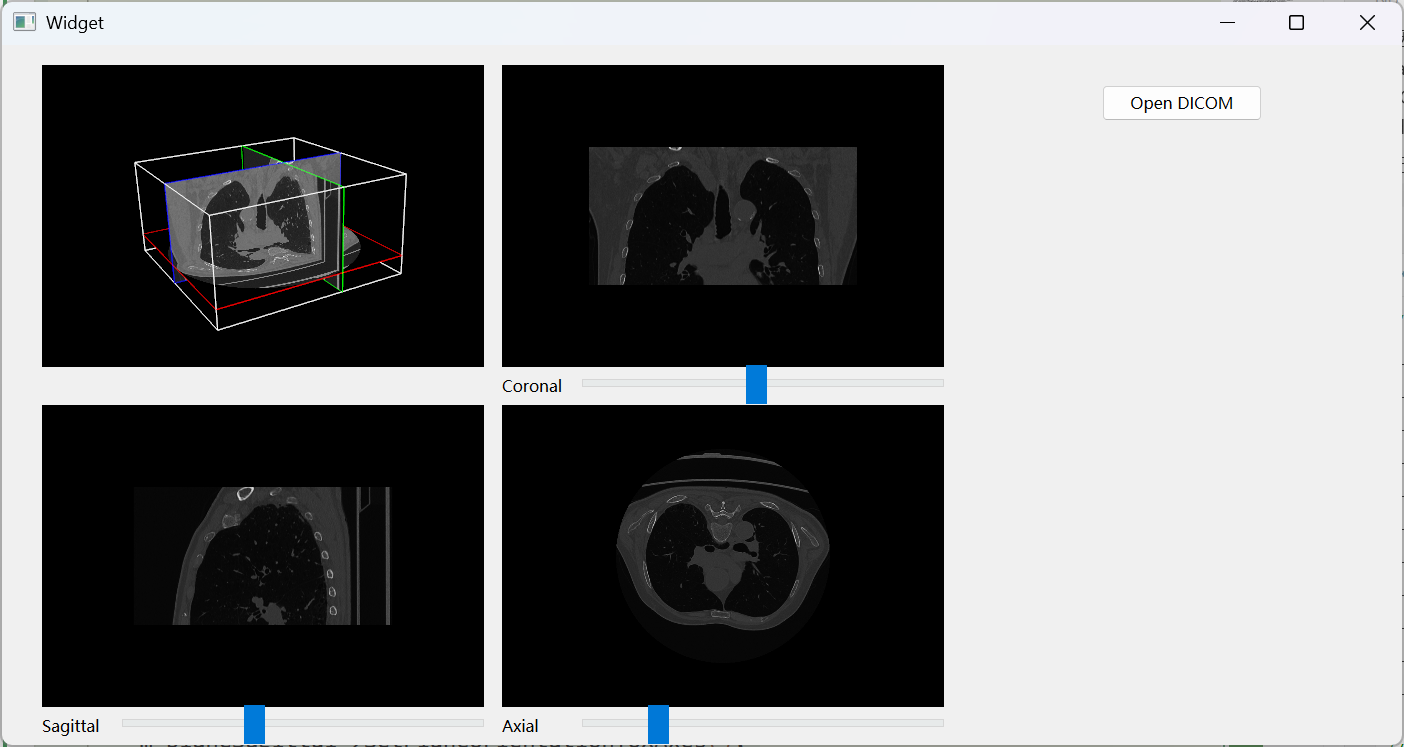
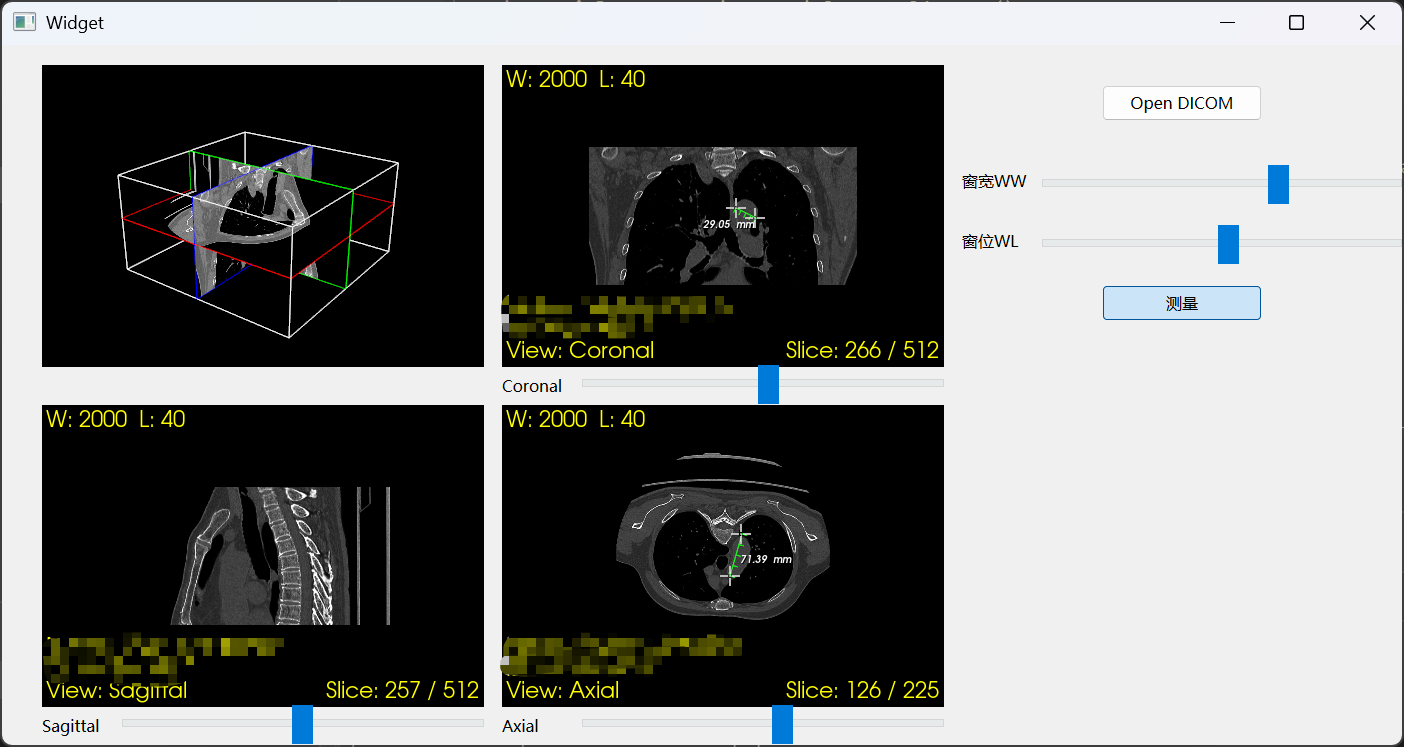
添加DICOM图像测量功能并优化注释显示

diff --git a/widget.cpp b/widget.cpp
@@ -9,6 +9,9 @@
 #include <QMessageBox>
 #include <QSlider>
 #include <QSignalBlocker>
+#include <QTextCodec>
+#include <QFile>
+#include <QStringList>
 
 #include <algorithm>
 #include <cstring>
@@ -34,6 +37,9 @@ VTK_MODULE_INIT(vtkRenderingFreeType);
 #include <vtkCellPicker.h>
 #include <vtkInteractorStyleImage.h>
 #include <vtkRenderWindowInteractor.h>
+#include <vtkDistanceWidget.h>
+#include <vtkDistanceRepresentation2D.h>
+#include <vtkProperty2D.h>
 
 #include <itkImageSeriesReader.h>
 #include <itkGDCMImageIO.h>
@@ -66,6 +72,7 @@ Widget::Widget(QWidget *parent)
 {
     ui->setupUi(this);
     connect(ui->btn_open, &QPushButton::clicked, this, &Widget::onOpenDicom);
+    connect(ui->btn_measure, &QPushButton::toggled, this, &Widget::onMeasureToggled);
     
     // 获取 UI 中的 QVTKOpenGLNativeWidget
     view_axial = ui->view_axial;
@@ -193,6 +200,20 @@ void Widget::onOpenDicom()
         return;
     }
 
+    // 健壮性处理：先关闭所有测量工具，防止与旧的 Interactor 冲突
+    if (m_distWidgetAxial) {
+        m_distWidgetAxial->Off();
+        m_distWidgetAxial->SetInteractor(nullptr);
+    }
+    if (m_distWidgetSagittal) {
+        m_distWidgetSagittal->Off();
+        m_distWidgetSagittal->SetInteractor(nullptr);
+    }
+    if (m_distWidgetCoronal) {
+        m_distWidgetCoronal->Off();
+        m_distWidgetCoronal->SetInteractor(nullptr);
+    }
+
     // 健壮性处理：如果已经存在 viewer，先重置输入数据
     if (m_viewerAxial) {
         m_viewerAxial->SetInputData(nullptr);
@@ -245,22 +266,52 @@ void Widget::onOpenDicom()
     m_viewerCoronal->SetInputData(vtkImage);
 
     // 初始化 / 添加 2D 视图角标
+    // 查找支持中文的系统字体文件（Windows）
+    QString chineseFontPath;
+    QStringList fontPaths = {
+        "C:/Windows/Fonts/msyh.ttf",      // 微软雅黑
+        "C:/Windows/Fonts/simhei.ttf",    // 黑体
+        "C:/Windows/Fonts/simsun.ttc",    // 宋体
+        "C:/Windows/Fonts/msyhbd.ttf"     // 微软雅黑 Bold
+    };
+    
+    for (const QString &path : fontPaths) {
+        if (QFile::exists(path)) {
+            chineseFontPath = path;
+            break;
+        }
+    }
+    
+    auto setupAnnotation = [&chineseFontPath](vtkCornerAnnotation *annot) {
+        if (!annot) return;
+        auto textProp = annot->GetTextProperty();
+        textProp->SetColor(1.0, 1.0, 0.0); // 黄色
+        
+        if (!chineseFontPath.isEmpty()) {
+            // 使用字体文件
+            textProp->SetFontFamily(VTK_FONT_FILE);
+            textProp->SetFontFile(chineseFontPath.toStdString().c_str());
+        } else {
+            // 回退到 Times 字体
+            textProp->SetFontFamilyToTimes();
+        }
+        
+        annot->SetMaximumFontSize(14);
+    };
+    
     if (!m_annotAxial) {
         m_annotAxial = vtkSmartPointer<vtkCornerAnnotation>::New();
-        m_annotAxial->GetTextProperty()->SetColor(1.0, 1.0, 0.0); // 黄色
-        m_annotAxial->SetMaximumFontSize(14);
+        setupAnnotation(m_annotAxial);
         m_viewerAxial->GetRenderer()->AddViewProp(m_annotAxial);
     }
     if (!m_annotSagittal) {
         m_annotSagittal = vtkSmartPointer<vtkCornerAnnotation>::New();
-        m_annotSagittal->GetTextProperty()->SetColor(1.0, 1.0, 0.0);
-        m_annotSagittal->SetMaximumFontSize(14);
+        setupAnnotation(m_annotSagittal);
         m_viewerSagittal->GetRenderer()->AddViewProp(m_annotSagittal);
     }
     if (!m_annotCoronal) {
         m_annotCoronal = vtkSmartPointer<vtkCornerAnnotation>::New();
-        m_annotCoronal->GetTextProperty()->SetColor(1.0, 1.0, 0.0);
-        m_annotCoronal->SetMaximumFontSize(14);
+        setupAnnotation(m_annotCoronal);
         m_viewerCoronal->GetRenderer()->AddViewProp(m_annotCoronal);
     }
 
@@ -292,34 +343,35 @@ void Widget::onOpenDicom()
     disconnect(sliderWindow,   &QSlider::valueChanged, this, nullptr);
     disconnect(sliderLevel,    &QSlider::valueChanged, this, nullptr);
 
-    // 设置轴向滑动条
+    // 设置轴向滑动条（先断开信号，设置值后再连接，避免触发未初始化的回调）
     int axialMin = m_viewerAxial->GetSliceMin();
     int axialMax = m_viewerAxial->GetSliceMax();
     sliderAxial->setRange(axialMin, axialMax);
-    // 设置滑动条默认值为中值（同时用于 3D 平面）
     int axialMid = std::clamp(axialMidIndex, axialMin, axialMax);
     m_viewerAxial->SetSlice(axialMid);
+    disconnect(sliderAxial, &QSlider::valueChanged, this, &Widget::onSliderAxialChanged);
     sliderAxial->setValue(axialMid);
     connect(sliderAxial, &QSlider::valueChanged, this, &Widget::onSliderAxialChanged, Qt::UniqueConnection);
 
-    // 设置矢状位滑动条
+    // 设置矢状位滑动条（先断开信号，设置值后再连接，避免触发未初始化的回调）
     int sagittalMin = m_viewerSagittal->GetSliceMin();
     int sagittalMax = m_viewerSagittal->GetSliceMax();
     sliderSagittal->setRange(sagittalMin, sagittalMax);
-    // 设置滑动条默认值为中值（同时用于 3D 平面）
     int sagittalMid = std::clamp(sagittalMidIndex, sagittalMin, sagittalMax);
     m_viewerSagittal->SetSlice(sagittalMid);
+    disconnect(sliderSagittal, &QSlider::valueChanged, this, &Widget::onSliderSagittalChanged);
     sliderSagittal->setValue(sagittalMid);
     connect(sliderSagittal, &QSlider::valueChanged, this, &Widget::onSliderSagittalChanged, Qt::UniqueConnection);
 
-    // 设置冠状位滑动条
+    // 设置冠状位滑动条（先断开信号，设置值后再连接，避免触发未初始化的回调）
     int coronalMin = m_viewerCoronal->GetSliceMin();
     int coronalMax = m_viewerCoronal->GetSliceMax();
     sliderCoronal->setRange(coronalMin, coronalMax);
-    // 设置滑动条默认值为中值（同时用于 3D 平面）
     int coronalMid = std::clamp(coronalMidIndex, coronalMin, coronalMax);
     m_viewerCoronal->SetSlice(coronalMid);
+    disconnect(sliderCoronal, &QSlider::valueChanged, this, &Widget::onSliderCoronalChanged);
     sliderCoronal->setValue(coronalMid);
+    connect(sliderCoronal, &QSlider::valueChanged, this, &Widget::onSliderCoronalChanged, Qt::UniqueConnection);
 
     // 设置窗宽 / 窗位滑动条的范围和默认值
     sliderWindow->setRange(1, 3000);
@@ -511,7 +563,52 @@ std::string Widget::GetDicomValue(const itk::MetaDataDictionary &dict,
     if (value.empty()) {
         return "N/A";
     }
-    return value;
+    
+    // 清理字符串：移除前导和尾随空白字符
+    std::string cleanedValue = value;
+    size_t firstNonSpace = cleanedValue.find_first_not_of(" \t\n\r");
+    if (firstNonSpace != std::string::npos) {
+        cleanedValue.erase(0, firstNonSpace);
+    }
+    size_t lastNonSpace = cleanedValue.find_last_not_of(" \t\n\r");
+    if (lastNonSpace != std::string::npos) {
+        cleanedValue.erase(lastNonSpace + 1);
+    }
+    
+    if (cleanedValue.empty()) {
+        return "N/A";
+    }
+    
+    // 对于患者姓名（0010|0010），尝试多种编码方式
+    if (tagKey == "0010|0010") {
+        // 尝试使用本地编码（Windows 上通常是 GBK）
+        QString nameFromLocal = QString::fromLocal8Bit(cleanedValue.c_str());
+        if (!nameFromLocal.contains('?') && !nameFromLocal.isEmpty()) {
+            return nameFromLocal.toStdString();
+        }
+        
+        // 尝试使用 GBK 编码
+        QTextCodec *gbkCodec = QTextCodec::codecForName("GBK");
+        if (gbkCodec) {
+            QString nameFromGBK = gbkCodec->toUnicode(cleanedValue.c_str());
+            if (!nameFromGBK.contains('?') && !nameFromGBK.isEmpty()) {
+                return nameFromGBK.toStdString();
+            }
+        }
+        
+        // 尝试使用 GB2312 编码
+        QTextCodec *gb2312Codec = QTextCodec::codecForName("GB2312");
+        if (gb2312Codec) {
+            QString nameFromGB2312 = gb2312Codec->toUnicode(cleanedValue.c_str());
+            if (!nameFromGB2312.contains('?') && !nameFromGB2312.isEmpty()) {
+                return nameFromGB2312.toStdString();
+            }
+        }
+        
+        // 如果都失败，使用原始值
+    }
+    
+    return cleanedValue;
 }
 
 void Widget::onSliderAxialChanged(int value)
@@ -685,23 +782,35 @@ void Widget::UpdateAnnotations()
         if (slice < 1) slice = 1;
         if (slice > totalSlices) slice = totalSlices;
 
+        // 使用 QString 构建所有文本，确保 UTF-8 编码
+        QString patientName = QString::fromStdString(m_patientName);
+        QString patientID = QString::fromStdString(m_patientID);
+        
+        // 如果姓名为空或只有空白字符，显示 "N/A"
+        if (patientName.trimmed().isEmpty() || patientName == "N/A") {
+            patientName = QString::fromUtf8("N/A");
+        }
+
         // 左上角：患者信息 + 方向
-        std::string topLeft = "Name: " + m_patientName +
-                              "\nID: " + m_patientID +
-                              "\nView: " + (orientationLabel ? orientationLabel : "");
-        annot->SetText(0, topLeft.c_str());
+        QString topLeft = QString::fromUtf8("Name: %1\nID: %2\nView: %3")
+                          .arg(patientName)
+                          .arg(patientID)
+                          .arg(orientationLabel ? QString::fromUtf8(orientationLabel) : QString());
+        annot->SetText(0, topLeft.toUtf8().constData());
 
         // 左下角：切片信息
-        std::string bottomLeft = "Slice: " + std::to_string(slice) +
-                                 " / " + std::to_string(totalSlices);
-        annot->SetText(1, bottomLeft.c_str());
+        QString bottomLeft = QString::fromUtf8("Slice: %1 / %2")
+                             .arg(slice)
+                             .arg(totalSlices);
+        annot->SetText(1, bottomLeft.toUtf8().constData());
 
         // 右下角：窗宽 / 窗位
         double w = viewer->GetColorWindow();
         double l = viewer->GetColorLevel();
-        std::string bottomRight = "W: " + std::to_string(static_cast<int>(w)) +
-                                  "  L: " + std::to_string(static_cast<int>(l));
-        annot->SetText(2, bottomRight.c_str());
+        QString bottomRight = QString::fromUtf8("W: %1  L: %2")
+                              .arg(static_cast<int>(w))
+                              .arg(static_cast<int>(l));
+        annot->SetText(2, bottomRight.toUtf8().constData());
     };
 
     updateForViewer(m_viewerAxial,    m_annotAxial,    "Axial");
@@ -819,5 +928,111 @@ void Widget::HandleViewClick(vtkResliceImageViewer *viewer,
     }
     if (auto slider = qobject_cast<QSlider*>(ui->slider_coronal)) {
         slider->setValue(idxY);
+    }
+}
+
+void Widget::onMeasureToggled(bool checked)
+{
+    if (checked) {
+        // 开启测量模式
+        if (!m_viewerAxial || !m_viewerSagittal || !m_viewerCoronal) {
+            QMessageBox::warning(this, QString::fromUtf8("提示"), 
+                                QString::fromUtf8("请先打开 DICOM 图像。"));
+            if (auto btn = ui->btn_measure) {
+                btn->setChecked(false);
+            }
+            return;
+        }
+
+        // 获取图像数据以获取 Spacing
+        vtkImageData *imageData = m_viewerAxial->GetInput();
+        if (!imageData) {
+            QMessageBox::warning(this, QString::fromUtf8("提示"), 
+                                QString::fromUtf8("无法获取图像数据。"));
+            if (auto btn = ui->btn_measure) {
+                btn->setChecked(false);
+            }
+            return;
+        }
+
+        double spacing[3];
+        imageData->GetSpacing(spacing);
+
+        // 初始化轴向视图的测量工具
+        if (!m_distWidgetAxial) {
+            m_distWidgetAxial = vtkSmartPointer<vtkDistanceWidget>::New();
+            auto rep = vtkSmartPointer<vtkDistanceRepresentation2D>::New();
+            m_distWidgetAxial->SetRepresentation(rep);
+            
+            // 设置标签格式（基于 spacing 计算物理距离）
+            rep->SetLabelFormat("%-#6.2f mm");
+            
+            // 注意：VTK 9.2 中 vtkDistanceRepresentation2D 的属性设置方式可能不同
+            // 先使用默认样式，确保功能正常工作
+        }
+        // 安全地设置 Interactor
+        auto axialInteractor = m_viewerAxial->GetRenderWindow() ? 
+                               m_viewerAxial->GetRenderWindow()->GetInteractor() : nullptr;
+        if (axialInteractor) {
+            m_distWidgetAxial->SetInteractor(axialInteractor);
+            m_distWidgetAxial->On();
+        }
+
+        // 初始化矢状位视图的测量工具
+        if (!m_distWidgetSagittal) {
+            m_distWidgetSagittal = vtkSmartPointer<vtkDistanceWidget>::New();
+            auto rep = vtkSmartPointer<vtkDistanceRepresentation2D>::New();
+            m_distWidgetSagittal->SetRepresentation(rep);
+            
+            rep->SetLabelFormat("%-#6.2f mm");
+        }
+        auto sagittalInteractor = m_viewerSagittal->GetRenderWindow() ? 
+                                  m_viewerSagittal->GetRenderWindow()->GetInteractor() : nullptr;
+        if (sagittalInteractor) {
+            m_distWidgetSagittal->SetInteractor(sagittalInteractor);
+            m_distWidgetSagittal->On();
+        }
+
+        // 初始化冠状位视图的测量工具
+        if (!m_distWidgetCoronal) {
+            m_distWidgetCoronal = vtkSmartPointer<vtkDistanceWidget>::New();
+            auto rep = vtkSmartPointer<vtkDistanceRepresentation2D>::New();
+            m_distWidgetCoronal->SetRepresentation(rep);
+            
+            rep->SetLabelFormat("%-#6.2f mm");
+        }
+        auto coronalInteractor = m_viewerCoronal->GetRenderWindow() ? 
+                                 m_viewerCoronal->GetRenderWindow()->GetInteractor() : nullptr;
+        if (coronalInteractor) {
+            m_distWidgetCoronal->SetInteractor(coronalInteractor);
+            m_distWidgetCoronal->On();
+        }
+
+        // 刷新所有窗口
+        m_viewerAxial->Render();
+        m_viewerSagittal->Render();
+        m_viewerCoronal->Render();
+    } else {
+        // 关闭测量模式
+        if (m_distWidgetAxial) {
+            m_distWidgetAxial->Off();
+        }
+        if (m_distWidgetSagittal) {
+            m_distWidgetSagittal->Off();
+        }
+        if (m_distWidgetCoronal) {
+            m_distWidgetCoronal->Off();
+        }
+
+        // 刷新所有窗口
+        if (m_viewerAxial) {
+            m_viewerAxial->Render();
+        }
+        if (m_viewerSagittal) {
+            m_viewerSagittal->Render();
+        }
+        if (m_viewerCoronal) {
+            m_viewerCoronal->Render();
+        }
     }
 }

diff --git a/widget.h b/widget.h
@@ -9,6 +9,9 @@
 #include <vtkCallbackCommand.h>
 #include <vtkCornerAnnotation.h>
 #include <vtkCellPicker.h>
+#include <vtkDistanceWidget.h>
+#include <vtkDistanceRepresentation2D.h>
+#include <vtkProperty2D.h>
 
 #include <itkImage.h>
 #include <itkMetaDataObject.h>
@@ -45,6 +48,7 @@ private slots:
     void onSliderSagittalChanged(int value);
     void onSliderCoronalChanged(int value);
     void onWindowLevelChanged();
+    void onMeasureToggled(bool checked);
 
 private:
     using PixelType = short;
@@ -100,6 +104,11 @@ private:
 
     // 3D 视图中的立方体外框
     vtkSmartPointer<vtkActor> m_outlineActor;
+
+    // 距离测量工具
+    vtkSmartPointer<vtkDistanceWidget> m_distWidgetAxial;
+    vtkSmartPointer<vtkDistanceWidget> m_distWidgetSagittal;
+    vtkSmartPointer<vtkDistanceWidget> m_distWidgetCoronal;
 
     vtkSmartPointer<vtkCallbackCommand> m_axialSliceCallback;
     vtkSmartPointer<vtkCallbackCommand> m_sagittalSliceCallback;
